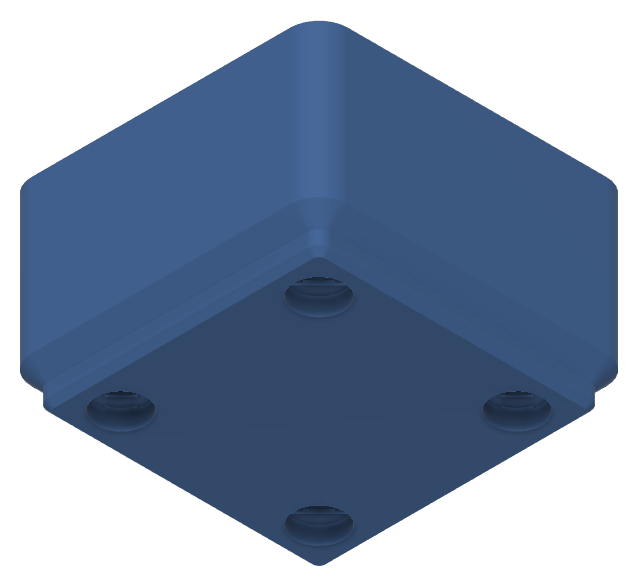
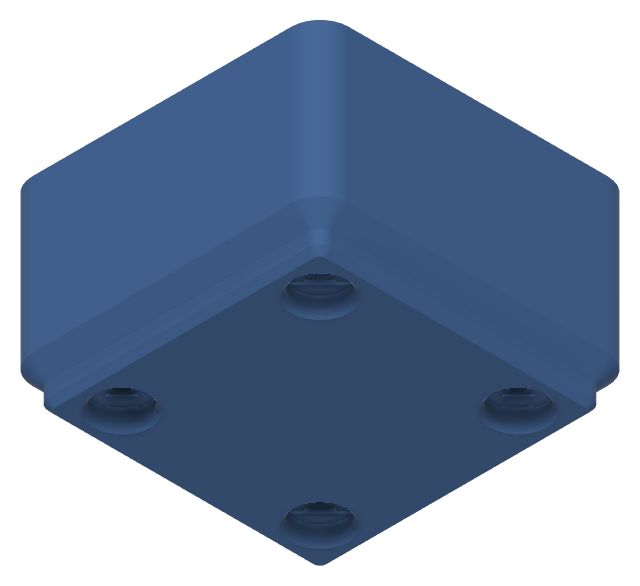
Show the magnet socket chamfer, tab top offset and padded connection holes
Model pictures rendered again with the chamfered magnet sockets, and new
ones of a bin with a 2 mm tab top offset and of a padded skeletonized
baseplate with its connection holes; the dialog shots to come are
listed in NEEDED.md.

diff --git a/docs/assets/images/NEEDED.md b/docs/assets/images/NEEDED.md
@@ -34,6 +34,22 @@ from GridfinityGenerator. The models in `docs/assets/models` are rendered by a F
 - `box-lid-closed.png`: a box 5 × 4 × 6 with **Lid top** *Closed*, in the view of `box-5x4x6.png`:
   [Storage boxes › Lid](../../boxes.md#lid).
 
+## Wanted (round 38, GridfinityGenerator 2.5 merged)
+
+Dialog screenshots, taken by the main session:
+- `dialog-bin-placement.png`: the bin dialog's **Placement** group with **Position** *Center on origin* and **Cell**
+  empty; `dialog-bin-placement-cell.png`: the same with a cell picked, **Position** greyed out. For
+  [Bins › Placement](../../bins/index.md#placement).
+- `dialog-bin-tab-top-offset.png`: the **Label tab** group with **Tab top offset** 2 mm. For [Label tab and labels](../../bins/labels.md).
+- `dialog-baseplate-connection-holes.png`: a full baseplate, the connection hole inputs greyed out. For [Baseplates](../../baseplates.md).
+- `dialog-box.png` again with the group *Lid* (p431), `updates-dialog-installed.png` again after an update (p450).
+
+## Taken (round 38, rendered by `fusion-auftraege/r38_render.py`)
+
+- `docs/assets/models/bin-magnet-cutouts.png`, `-with-tabs.png`, `-and-screw-holes-with-groove.png` again, with the
+  chamfered magnet sockets; `bin-tab-top-offset.png`, `baseplate-padding-connection-holes.png` new. View, color and
+  crop as the pictures of round 26 (orthographic, `#4A82C8`, content plus 20 px).
+
 ## Taken (joint origins guide)
 
 - `joint-origins-browser.png`, `dialog-insert-pocket.png`, `joint-bin-into-baseplate.png`, `joints-delete.png`:

diff --git a/docs/baseplates.md b/docs/baseplates.md
@@ -99,6 +99,8 @@ around the grid, 0 or more. The paddings are user parameters of the plate, see [
 | **Add connection holes** | off | Skeletonized plates: holes between the plates for a screw or a glued-in pin. Greyed out for light and full plates. A side with padding or half cells gets none, it isn't an edge another plate meets; seams between the pieces of a filled area keep theirs |
 | **Connection hole diameter** | 3.2 mm | Up to 5 mm, greyed out without connection holes |
 
+![A skeletonized 2 × 2 baseplate seen from below, padded on the left and the front: connection holes only on the right and the back side](assets/models/baseplate-padding-connection-holes.png)
+
 <picture><source media="(prefers-color-scheme: dark)" srcset="../assets/gif/baseplate-connection-holes-dark.gif"><img src="../assets/gif/baseplate-connection-holes-light.gif" alt="Turning on connection holes and changing their diameter, with a skeletonized baseplate without, with 3.2 mm and with 5 mm connection holes"></picture>
 
 ## Inputs

diff --git a/docs/bins/labels.md b/docs/bins/labels.md
@@ -17,6 +17,8 @@ top, for a label. With several compartments every compartment gets its own tab.
 | **Hollow tab** | off | Shells the tab with the wall thickness. With a single compartment it is opened through the back wall of the bin, with more compartments it is left closed. On by default for shelled bins, locked off for bins with creased walls |
 | **Open through side walls** | off | Also opens a hollow tab through the side walls where it runs into them. Single compartment only |
 
+![A 3 × 2 bin with three compartments, their label tabs and dividers 2 mm below the top with Tab top offset 2 mm](../assets/models/bin-tab-top-offset.png)
+
 <picture><source media="(prefers-color-scheme: dark)" srcset="../../assets/gif/bin-label-tab-options-dark.gif"><img src="../../assets/gif/bin-label-tab-options-light.gif" alt="Changing the label tab length and position in the dialog, with the bin for each"></picture>
 
 ## The label
